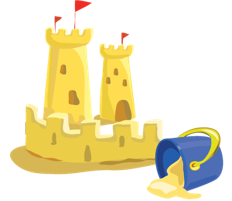
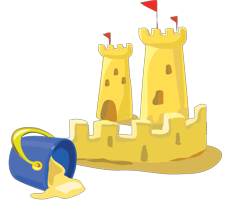
bottle

diff --git a/js/main.js b/js/main.js
@@ -34,6 +34,7 @@ $(document).ready(function(){
 			$('.chipmunk').addClass("chipmunkhover");
 			$('.jungle').addClass("junglehover");
 			$('.shinchan').addClass("shinchanhover");
+			$('.bottle').addClass("bottlehover");
 		});
 		$(document).keydown(function(e){
 			if(e.keyCode==38){
@@ -46,6 +47,7 @@ $(document).ready(function(){
 				$('.chipmunk').addClass("chipmunkhover");
 				$('.jungle').addClass("junglehover");
 				$('.shinchan').addClass("shinchanhover");
+				$('.bottle').addClass("bottlehover");
 			}
 			else if(e.keyCode==40){
 				$('.island, .water, .bird, .pikachu, .castle, .chipmunk, .tape, .leftplant').removeClass("islandHover");
@@ -57,6 +59,7 @@ $(document).ready(function(){
 				$('.chipmunk').removeClass("chipmunkhover");
 				$('.jungle').removeClass("junglehover");
 				$('.shinchan').removeClass("shinchanhover");
+				$('.bottle').removeClass("bottlehover");
 			}
 		});
 

diff --git a/index.html b/index.html
@@ -49,11 +49,11 @@
       }
 
       .lamp{
-        width: 6%;
-        transform: rotate(-30deg);
-        top: 90%;
+        width: 4%;
+        transform: rotate(-25deg);
+        bottom: 5%;
         position: absolute;
-        left: 35%;
+        left: 40%;
         z-index: 1001;
       }
 
@@ -96,6 +96,7 @@
                 <img class ="img pikachu" src="images/pikachu.gif" />
                 <img class ="img castle" src="images/sandcastle.png" />
                 <img class="img chipmunk" src="images/chipmunk.gif">
+                <img class="img bottle" src="images/bottle2.png">
                 <!-- <img class ="img bl1" src="images/babylooney/1.gif" />
                 <img class ="img bl2" src="images/babylooney/2.gif" />
                 <img class ="img bl3" src="images/babylooney/3.gif" />

diff --git a/css/index.css b/css/index.css
@@ -12,14 +12,27 @@
 	bottom: 10%;
 	width: 12%;
 	z-index: 1000;    
-	transform: scaleX(-1);
 	transition: transform 2s, right 2s;
 	right: 17vw;
 }
 
+.bottle {
+	position: absolute;
+	bottom: 8%;
+	left: 50%;
+	transition: transform 2s, bottom 2s;
+	z-index: 1000;
+	width: 6%;
+}
+
+.bottlehover {
+	transform: scale(1.2);
+	bottom: 6%;
+}
+
 .castlehover {
 	right: 12vw;
-	transform: scaleX(-1.2) scaleY(1.2);
+	transform: scale(1.2);
 }
 
 .leftplant {
